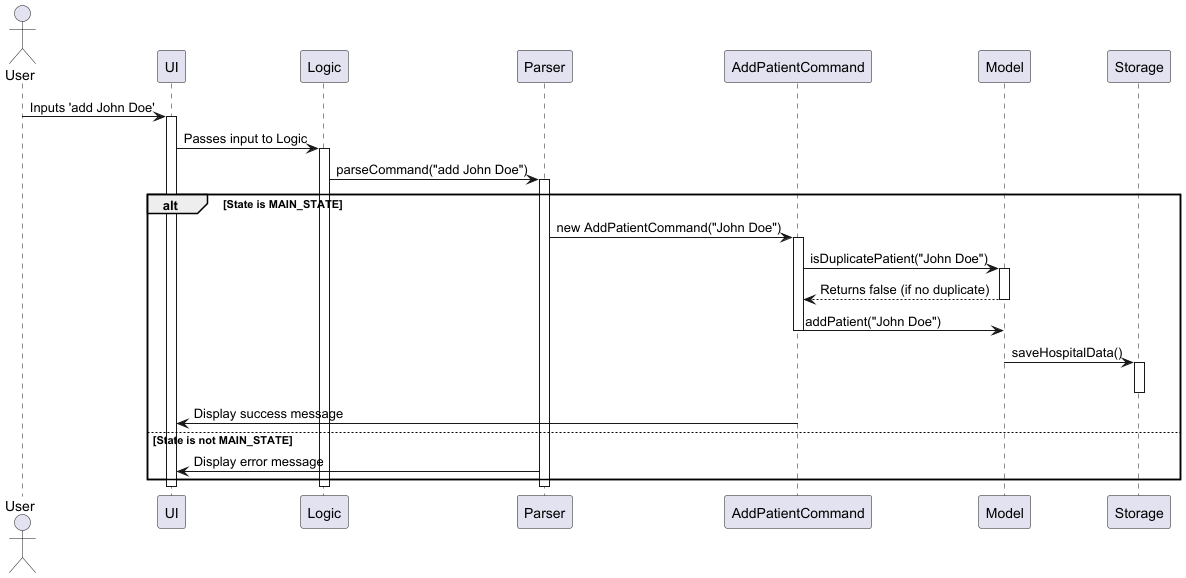
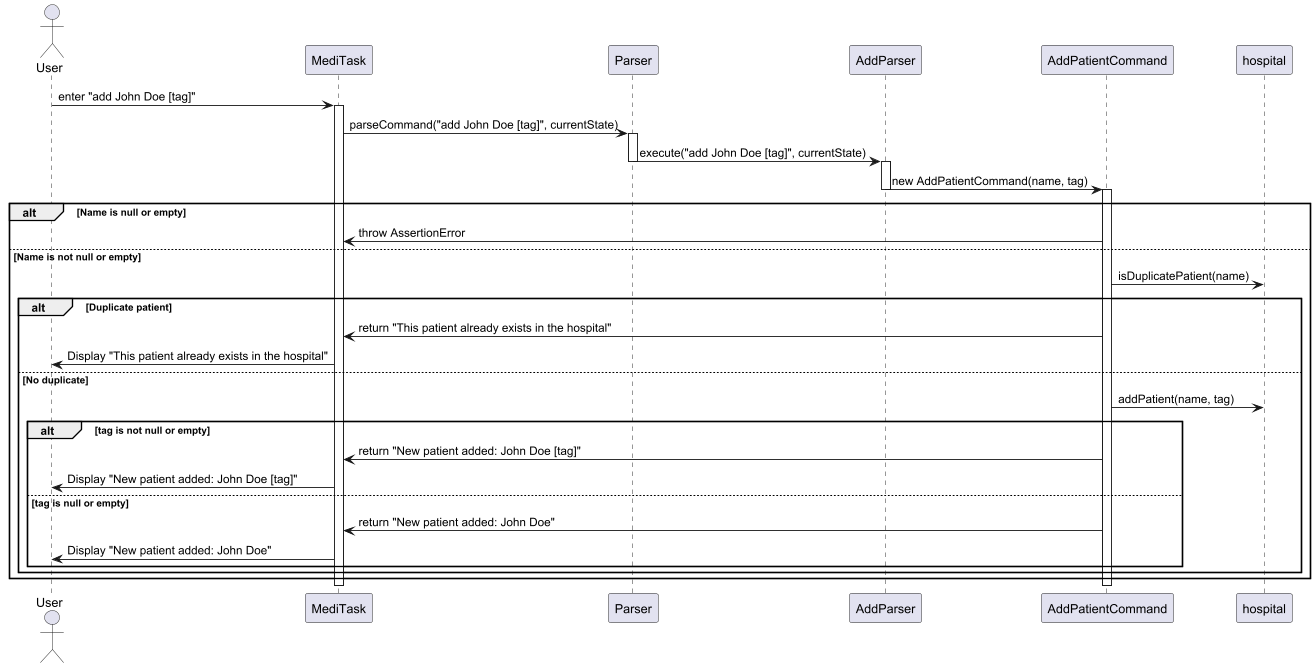
Update AddPatientCommand section in DG
Changes made:
* Updated the documentation for AddPatientCommand feature

These changes improve clarity on how AddPatientCommand operates and
assist in better understanding the system’s patient management
functionality.

diff --git a/docs/DeveloperGuide.md b/docs/DeveloperGuide.md
@@ -78,17 +78,21 @@ The `Storage` component,
 
 Classes that are used by multiple components are placed in the `Common` package.
 
+---
 
 ## Implementation
 
-### **AddPatientCommand**
+### **Add Patient Command**
 
-The add patient feature allows users to add a new patient to the hospital system. This is facilitated by the `AddPatientCommand`, which handles the logic of adding a patient and updating the system’s state and storage.
+The add patient feature allows users to register a new patient within the hospital system. This feature is implemented in the `AddPatientCommand` class, which handles the validation, addition, and logging related to patient registration.
 
-1. **User Input**: The user enters the `addPatient` command followed by patient details (e.g., name).
-2. **Command Parsing**: The `Parser` parses the input and creates an `AddPatientCommand` object.
-3. **Execution**: The `AddPatientCommand` checks if the patient already exists in the `Hospital`. If not, it adds the patient.
-4. **Storage Update**: The updated hospital data, now containing the new patient, is saved to storage.
+1. **User Input**: The user enters the `add` command followed by the patient's name and an optional tag (e.g., "add John Doe /tag Critical").
+2. **Command Parsing**: The `Parser` interprets the input and creates an `AddPatientCommand` object with the specified name and tag.
+3. **Execution**: The `AddPatientCommand`:
+        - Checks if a patient with the given name already exists in the hospital system using the `hospital.isDuplicatePatient()` method.
+        - If a duplicate is detected, a severe-level log entry is created, and the user is notified with a message.
+        - If no duplicate is found, the patient is added to the hospital’s records, and a success message is generated.
+4. **Storage Update**: The updated hospital data, which now includes the new patient, is saved to storage for persistence across sessions.
 
 #### Sequence Diagram
 
@@ -96,8 +100,15 @@ The following sequence diagram illustrates how the `AddPatientCommand` is execut
 
 ![AddPatientCommand Sequence Diagram](https://github.com/AY2425S1-CS2113-T11-1/tp/raw/master/docs/images/AddPatientSequenceDiagram.png)
 
-- **If Condition**: The command checks if the patient already exists before adding the patient.
-- **Logging**: If a duplicate is detected, an error is logged.
+- **Conditional Check**: The command checks for duplicate entries by verifying if a patient with the given name already exists.
+- **Logging**: If a duplicate is detected, a severe-level log entry is recorded, and no patient is added.
+
+#### Implementation Considerations
+
+- **Error Handling**: This command includes assertions to validate the presence of a non-null, non-empty name.
+- **Logging Configuration**: The logger is set to `Level.SEVERE` to log only warnings and errors.
+- **Tag Handling**: The tag attribute is optional, and the command formats the success message based on whether a tag is provided.
+
 
 ### **AddTaskCommand**
 
